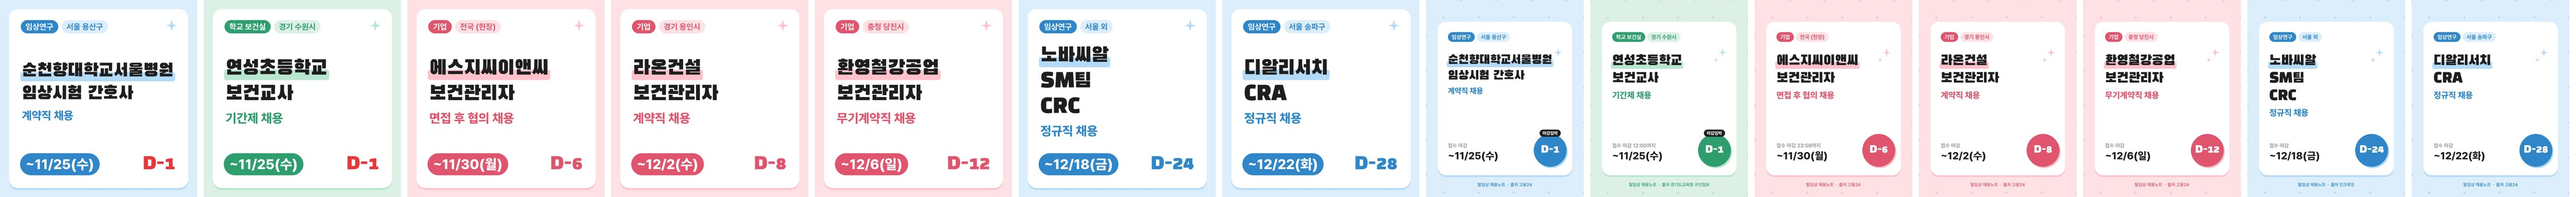
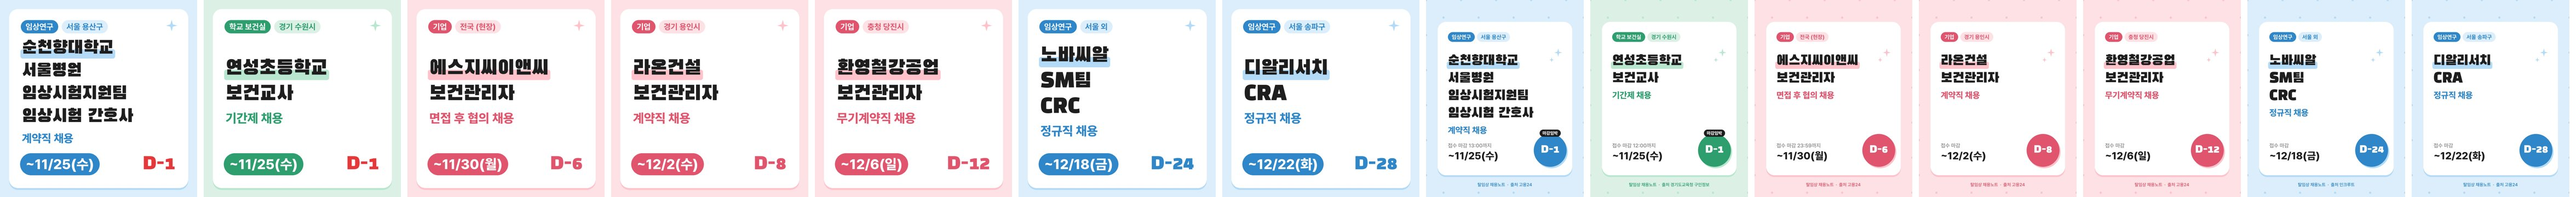
순천향대 서울병원 임상시험지원팀 공고 원문(공고문 PDF)으로 보완 2026-11-24
Claude-Session: https://claude.ai/code/session_015ozFBvjxcWAyqLYfTbBGCZ

diff --git a/docs/2026-11-24/index.html b/docs/2026-11-24/index.html
@@ -19,26 +19,30 @@ a{color:var(--accent)}ul.days{padding-left:1.2em}
 <h1>2026-11-24 탈임상 공고 27건</h1>
 
 <h2>📝 오늘 올릴 블로그 글 7개</h2>
-<div class="box"><div class="row"><b>글 1. 순천향대학교서울병원 · 임상시험 간호사</b>
+<div class="box"><div class="row"><b>글 1. 순천향대학교 서울병원 · 임상시험 간호사</b>
 <span class="muted">카테고리: 탈임상 채용공고 &gt; 임상연구</span></div>
-<div class="row" style="margin-top:8px"><pre id="pt1" style="flex:1;margin:0">[서울] 순천향대학교서울병원 임상시험 간호사 계약직 채용 (~11/25)</pre>
+<div class="row" style="margin-top:8px"><pre id="pt1" style="flex:1;margin:0">[서울] 순천향대학교 서울병원 임상시험지원팀 임상시험 간호사 계약직 채용 (~11/25)</pre>
 <button onclick="copyText('pt1',this)">제목 복사</button></div>
 <details open><summary class="muted" style="margin:10px 0;cursor:pointer">본문 미리보기 (접기)</summary>
-<div id="pb1" class="post"><p>경력 제한 없이 대학병원 임상시험지원팀에서 연구 업무를 시작할 수 있는 자리입니다. 순천향대 서울병원이 계약직 간호사를 모집합니다.</p><p>&nbsp;</p>
+<div id="pb1" class="post"><p>임상시험종사자 교육을 이미 마쳤다면 바로 지원할 수 있는 대학병원 연구 자리입니다. 대상자 등록부터 이상사례 보고, 실태조사 응대까지 임상시험 실무 전반을 맡습니다. 2027년 1월 1일 임용 예정입니다.</p><p>&nbsp;</p>
 <h2>📌 채용 개요</h2>
 <table border="1" cellpadding="8" style="border-collapse:collapse;width:100%">
-<tr><td style="width:30%;background:#f5f5f5"><b>기관</b></td><td>순천향대학교서울병원</td></tr>
-<tr><td style="width:30%;background:#f5f5f5"><b>부서 · 직무</b></td><td>임상시험 간호사</td></tr>
-<tr><td style="width:30%;background:#f5f5f5"><b>고용 형태</b></td><td>계약직</td></tr>
+<tr><td style="width:30%;background:#f5f5f5"><b>기관</b></td><td>순천향대학교 서울병원</td></tr>
+<tr><td style="width:30%;background:#f5f5f5"><b>부서 · 직무</b></td><td>임상시험지원팀 임상시험 간호사</td></tr>
+<tr><td style="width:30%;background:#f5f5f5"><b>고용 형태</b></td><td>계약직 (임용(예정)일자 2027.01.01 (기관 사정에 따라 변경 가능))</td></tr>
 <tr><td style="width:30%;background:#f5f5f5"><b>근무지</b></td><td>서울 용산구</td></tr>
 <tr><td style="width:30%;background:#f5f5f5"><b>급여</b></td><td>공고문 확인 필요 (기관 내규)</td></tr>
 <tr><td style="width:30%;background:#f5f5f5"><b>근무 시간</b></td><td>공고문 확인 필요</td></tr>
-<tr><td style="width:30%;background:#f5f5f5"><b>접수 기간</b></td><td>11월 19일 ~ 11월 25일 (D-1)</td></tr>
+<tr><td style="width:30%;background:#f5f5f5"><b>접수 기간</b></td><td>11월 19일 ~ 11월 25일 13:00 (D-1)</td></tr>
 </table><p>&nbsp;</p>
-<h2>✅ 지원 자격</h2><ul><li>간호사 (모집 직종)</li><li>경력무관</li><li>학력무관</li></ul><p>&nbsp;</p>
-<h2>💡 한줄 TIP</h2><p>임상 경력 없이 연구간호사로 시작하려는 분께 적합. 11월 25일 마감, 세부 조건은 원문 확인.</p><p>&nbsp;</p>
+<h2>✅ 지원 자격</h2><ul><li>간호사 면허증 소지자 [필수]</li><li>임상시험종사자 교육 이수자(CRC) [필수]</li><li>남성의 경우 군필자 또는 면제자</li><li>본원 규정의 신규임용에 결격사유가 없는 자</li></ul><p>&nbsp;</p>
+<h2>⭐ 우대 사항</h2><ul><li>관련 업무 유경험자 우대</li><li>국가 보훈대상자 및 장애인은 관계법에 의거 우대 (증빙서류 첨부)</li></ul><p>&nbsp;</p>
+<h2>📎 직무내용</h2><ul><li>임상시험 수행(대상자 등록관리, 이상사례 보고 등) 및 과제 관리</li><li>기본문서관리 및 점검 실태조사 응대</li><li>그 외 부서에서 정하는 업무</li></ul><p>&nbsp;</p>
+<h2>🧭 전형 절차</h2><ol><li>서류 → 전공면접 → 신체검사 (1차 발표 11/27, 면접 12/2, 최종 발표 12/11 예정)</li></ol><p>&nbsp;</p>
+<h2>💡 한줄 TIP</h2><p>CRC 교육을 이수한 간호사에게 적합. 교육 이수가 필수이며 마감은 11/25 오후 1시.</p><p>&nbsp;</p>
 <h2>🔗 지원하기</h2><ul>
-<li><a href="http://www.saramin.co.kr/zf_user/recruit/recruit-view?idx=55619733">기관 채용 홈페이지에서 바로 지원</a></li>
+<li><a href="https://jobapplication.schmc.ac.kr/recruit/biz/job/recruiteList">순천향대학교 서울병원 채용 홈페이지</a> → 공고 목록에서 <b>"[서울병원] 임상시험지원팀 계약직 간호사 채용공고"</b>을 찾아 지원하세요</li>
+<li>접수 방법: 본원 홈페이지 &#x27;인재공고&#x27;에서 온라인 지원서 작성 (마감 30분 전까지 완료 권장, 마감 후 접수 불가)</li>
 </ul><p>※ 공고 내용을 요약한 글입니다. 지원 전 원문 공고문을 꼭 확인하세요.</p><p>&nbsp;</p>
 <p>📢 <b>새 공고는 매일 아침 인스타그램 스토리에 먼저 올라옵니다.</b><br>마감 하루 전 알림도 스토리로 보내드립니다.<br>👉 인스타그램 <a href="https://www.instagram.com/live_in_fact/">@live_in_fact</a> 팔로우하고 놓치지 마세요</p><p>&nbsp;</p>
 <p>#순천향대학교서울병원채용 #간호사채용 #탈임상 #탈임상간호사 #순천향대서울병원 #임상시험지원팀 #연구간호사 #서울간호사 #계약직 #간호사이직</p></div></details>
@@ -304,7 +308,7 @@ a{color:var(--accent)}ul.days{padding-left:1.2em}
 <h2>🔬 임상연구 (12건)</h2>
 <table border="1" cellpadding="8" style="border-collapse:collapse;width:100%">
 <tr style="background:#f5f5f5"><td><b>마감</b></td><td><b>기관 · 직무</b></td><td><b>근무지</b></td></tr>
-<tr><td>11/25<br><b><span style="color:#e03131">D-1</span></b></td><td>🆕 <a href="http://www.saramin.co.kr/zf_user/recruit/recruit-view?idx=55619733">순천향대학교서울병원</a><br>임상시험 간호사 · <b>계약직</b><br>📝 <a href="https://blog.naver.com/PostSearchList.naver?blogId=live_in_fact&amp;orderType=sim&amp;searchText=%EC%88%9C%EC%B2%9C%ED%96%A5%EB%8C%80%ED%95%99%EA%B5%90%EC%84%9C%EC%9A%B8%EB%B3%91%EC%9B%90">정리글 보기</a></td><td>서울 용산구</td></tr>
+<tr><td>11/25<br><b><span style="color:#e03131">D-1</span></b></td><td>🆕 <a href="https://jobapplication.schmc.ac.kr/recruit/biz/job/recruiteList">순천향대학교 서울병원</a><br>임상시험지원팀 임상시험 간호사 · <b>계약직</b><br>📝 <a href="https://blog.naver.com/PostSearchList.naver?blogId=live_in_fact&amp;orderType=sim&amp;searchText=%EC%88%9C%EC%B2%9C%ED%96%A5%EB%8C%80%ED%95%99%EA%B5%90%20%EC%84%9C%EC%9A%B8%EB%B3%91%EC%9B%90">정리글 보기</a></td><td>서울 용산구</td></tr>
 <tr><td>12/3<br>D-9</td><td><a href="https://job.alio.go.kr/recruitview.do?idx=307212">부산대학교병원</a><br>권역외상센터 운영지원팀 연구원 · <b>계약직</b><br>📝 <a href="https://blog.naver.com/PostSearchList.naver?blogId=live_in_fact&amp;orderType=sim&amp;searchText=%EB%B6%80%EC%82%B0%EB%8C%80%ED%95%99%EA%B5%90%EB%B3%91%EC%9B%90">정리글 보기</a></td><td>부산</td></tr>
 <tr><td>12/15<br>D-21</td><td>🆕 <a href="http://www.saramin.co.kr/zf_user/recruit/recruit-view?idx=55582657">제이인츠바이오</a><br>CRA · <b>정규직</b></td><td>서울 성동구</td></tr>
 <tr><td>12/18<br>D-24</td><td>🆕 <a href="https://job.incruit.com/jobdb_info/jobpost.asp?job=2611180001031">노바씨알</a><br>SM팀 CRC · <b>정규직</b><br>📝 <a href="https://blog.naver.com/PostSearchList.naver?blogId=live_in_fact&amp;orderType=sim&amp;searchText=%EB%85%B8%EB%B0%94%EC%94%A8%EC%95%8C">정리글 보기</a></td><td>서울 외</td></tr>
@@ -339,7 +343,7 @@ a{color:var(--accent)}ul.days{padding-left:1.2em}
 
 · 홍성군보건소 간호사 (D-DAY)
 · 한국고용정보원 보건관리자 (D-DAY)
-· 순천향대학교서울병원 임상시험 간호사 (D-1)
+· 순천향대학교 서울병원 임상시험 간호사 (D-1)
 · 연성초등학교 보건교사 (D-1)
 · 대한산업보건협회 광주전남지역본부 보건관리 간호사 (D-1)
 · 대한적십자사 간호사 (D-1)
@@ -357,15 +361,15 @@ a{color:var(--accent)}ul.days{padding-left:1.2em}
 #탈임상 #탈임상간호사 #간호사채용 #간호사이직 #간호사취업 #보건관리자 #보험심사간호사 #보건소간호사 #CRC #간호사채용공고</pre><button onclick="copyText('rcap',this)">캡션 복사</button></div>
 <div class="box"><b>스토리: 오늘 공고</b> <span class="muted">(링크 스티커로 블로그 글 연결)</span>
 <div style="display:flex;flex-wrap:wrap;margin-top:8px"><a href="story-01.jpg" download><img src="story-01.jpg" style="width:110px;border-radius:8px;border:1px solid var(--line);margin:0 6px 6px 0"></a><a href="story-02.jpg" download><img src="story-02.jpg" style="width:110px;border-radius:8px;border:1px solid var(--line);margin:0 6px 6px 0"></a><a href="story-03.jpg" download><img src="story-03.jpg" style="width:110px;border-radius:8px;border:1px solid var(--line);margin:0 6px 6px 0"></a><a href="story-04.jpg" download><img src="story-04.jpg" style="width:110px;border-radius:8px;border:1px solid var(--line);margin:0 6px 6px 0"></a><a href="story-05.jpg" download><img src="story-05.jpg" style="width:110px;border-radius:8px;border:1px solid var(--line);margin:0 6px 6px 0"></a><a href="story-06.jpg" download><img src="story-06.jpg" style="width:110px;border-radius:8px;border:1px solid var(--line);margin:0 6px 6px 0"></a><a href="story-07.jpg" download><img src="story-07.jpg" style="width:110px;border-radius:8px;border:1px solid var(--line);margin:0 6px 6px 0"></a></div></div>
-<details><summary class='muted' style='cursor:pointer'>공고별 카드뉴스(예전 형식, 필요할 때만)</summary><div class="box"><div style="display:flex;flex-wrap:wrap"><a href="ig-01-1.jpg" download><img src="ig-01-1.jpg" alt="인스타 1-1" style="width:150px;border-radius:8px;border:1px solid var(--line);margin:0 6px 6px 0"></a><a href="ig-01-2.jpg" download><img src="ig-01-2.jpg" alt="인스타 1-2" style="width:150px;border-radius:8px;border:1px solid var(--line);margin:0 6px 6px 0"></a><a href="ig-01-3.jpg" download><img src="ig-01-3.jpg" alt="인스타 1-3" style="width:150px;border-radius:8px;border:1px solid var(--line);margin:0 6px 6px 0"></a></div>
-<div><b>인스타 1. 순천향대학교서울병원</b> <span class="muted">(3장 · 순서대로 올리세요)</span>
-<pre id="ic1" style="margin:8px 0">📌 [서울] 순천향대학교서울병원 임상시험 간호사 계약직 채용
+<details><summary class='muted' style='cursor:pointer'>공고별 카드뉴스(예전 형식, 필요할 때만)</summary><div class="box"><div style="display:flex;flex-wrap:wrap"><a href="ig-01-1.jpg" download><img src="ig-01-1.jpg" alt="인스타 1-1" style="width:150px;border-radius:8px;border:1px solid var(--line);margin:0 6px 6px 0"></a><a href="ig-01-2.jpg" download><img src="ig-01-2.jpg" alt="인스타 1-2" style="width:150px;border-radius:8px;border:1px solid var(--line);margin:0 6px 6px 0"></a><a href="ig-01-3.jpg" download><img src="ig-01-3.jpg" alt="인스타 1-3" style="width:150px;border-radius:8px;border:1px solid var(--line);margin:0 6px 6px 0"></a><a href="ig-01-4.jpg" download><img src="ig-01-4.jpg" alt="인스타 1-4" style="width:150px;border-radius:8px;border:1px solid var(--line);margin:0 6px 6px 0"></a></div>
+<div><b>인스타 1. 순천향대학교 서울병원</b> <span class="muted">(4장 · 순서대로 올리세요)</span>
+<pre id="ic1" style="margin:8px 0">📌 [서울] 순천향대학교 서울병원 임상시험지원팀 임상시험 간호사 계약직 채용
 
 📍 근무지: 서울 용산구
-⏰ 마감: 11/25까지 (D-1)
-✅ 자격: 간호사 면허 / 경력무관
+⏰ 마감: 11/25 13:00까지 (D-1)
+✅ 자격: 간호사 면허 (필수) / CRC 교육 이수 (필수) / 관련 업무 유경험자 우대
 
-💡 임상 경력 없이 연구간호사로 시작하려는 분께 적합. 11월 25일 마감, 세부 조건은 원문 확인.
+💡 CRC 교육을 이수한 간호사에게 적합. 교육 이수가 필수이며 마감은 11/25 오후 1시.
 
 🔗 우대 사항·전형·지원 링크는 프로필 링크(블로그)에서
 💾 저장해두고 마감 체크
